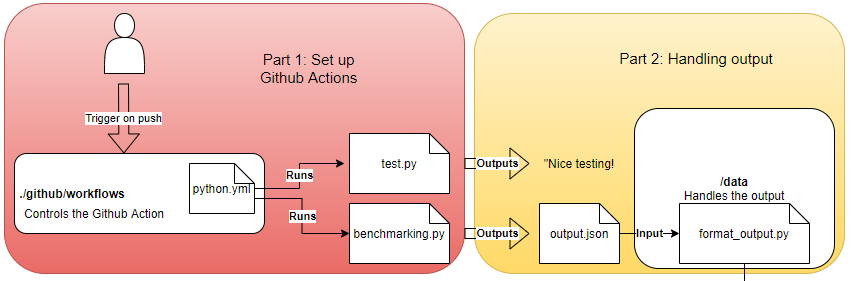
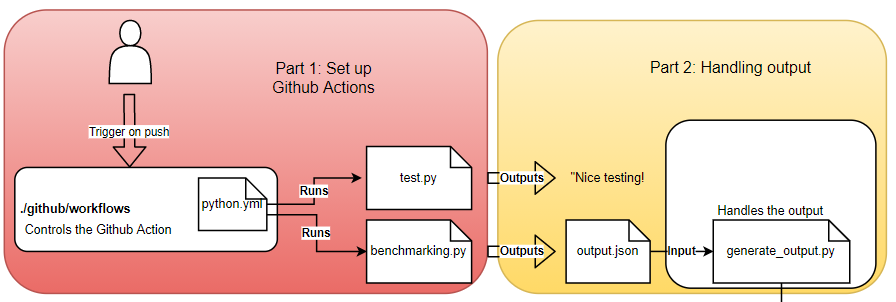
final touches

Changed region(s): [[0.0, 0.0, 0.9988, 1.0], [0.3027, 0.1993, 0.4237, 0.3132], [0.7264, 0.1708, 0.908, 0.2562]]

diff --git a/ghactionDemo/step7.md b/ghactionDemo/step7.md
@@ -11,12 +11,16 @@ Your page should now be published on `https://INSERT_USERNAME.github.io/Benchmar
 If nothing is specified the page will display your README.md file. In our case we want it to run the `index.html` file in `docs/`. 
 * So change the source from root to docs as shown in the image. 
 
-Github pages will either by default read a index.md or index.html, which fortunate for you, is already in there (both the index file and the css file were just taken from this [template website](https://uicookies.com/css-table-templates/)). You can press the link and try to run it. It might be a little slow to update so if it dosen't work wait a little and refresh the page.
+Github pages will either by default read a index.md or index.html, which fortunate for you, is already in there (both the index file and the css file were just taken from this [template website](https://uicookies.com/css-table-templates/)). 
+
+You can press the link and try to run it. It might be a little slow to update so if it dosen't work wait a little and refresh the page.
 
 Examining the flowchart again:
 <img src="https://github.com/jhammarstedt/katacoda-scenarios/blob/main/ghactionDemo/images/framework.PNG?raw=true" />
 
-We haven't adressed the `format_output` file yet. For simplicity we will just write a python script that reads the `output.json` and edits the `index.html` by adding the new table values. For the `index.html` file we choose the include Commit, Date, Mean, Max, Min, Standard Deviation (All in ms). (The file could look odd but you can format it by right clicking and press `Format Document` while watching the file in the IDE)
+We haven't adressed the `generate_output` file yet. For simplicity we will just write a python script that reads the `output.json` and edits the `index.html` by adding the new table values. For the `index.html` file we choose the include Commit, Date, Mean, Max, Min, Standard Deviation (All in ms). 
+
+(The file could look odd but you can format it by right clicking and press `Format Document` while watching the file in the IDE)
 
 <img src="https://github.com/jhammarstedt/katacoda-scenarios/blob/main/ghactionDemo/images/index_prev.PNG?raw=true" />
 
@@ -83,40 +87,38 @@ python src/generate_output.py
 
 This code will run the pytest benchmarking tool on the 'benchmarking.py' script and the results will be stored in the 'output.json' file. The 'src/generate_output.py' will then format the results stored in 'output.json' and store it in the 'index.html' file. 
 
-<details> 
-  <summary>Full python.yml file available here</summary>
-  ```
-    name: Python benchmarking using pytest
-    on: push
-    jobs:
-            benchmark:
-                    name: pytest-benchmarking
-                    runs-on: ubuntu-latest
-                    steps:
-                            - uses: actions/checkout@v2
-                            with:
-                                    persist-credentials: false
-                                    fetch-depth: 0 
-                            - uses: actions/setup-python@v1
-                            - name: Installing and running pytest
-                            run: |
-                                    pwd
-                                    python -m pip install --upgrade pip
-                                    if [ -f requirements.txt ]; 
-                                    then pip install -r requirements.txt; fi
-                                    python src/test.py
-                                    pytest src/benchmarking.py --benchmark-json output.json
-                                    python src/generate_output.py
-                            - name: Commit files
-                            run: |
-                                git config --local user.email "41898282+github-actions[bot]@users.noreply.github.com"
-                                git config --local user.name "github-actions[bot]"
-                                git add .
-                                git commit -m "Add new data" -a
-                            - name: Push changes
-                            uses: ad-m/github-push-action@master
-                            with:
-                                    github_token: ${{ secrets.GITHUB_TOKEN }}
-                                    branch: ${{ github.ref }}
-  ```{{copy}}
-</details>
+Full python.yml file available here
+```
+name: Python benchmarking using pytest
+on: push
+jobs:
+        benchmark:
+                name: pytest-benchmarking
+                runs-on: ubuntu-latest
+                steps:
+                      - uses: actions/checkout@v2
+                        with:
+                                persist-credentials: false
+                                fetch-depth: 0 
+                      - uses: actions/setup-python@v1
+                      - name: Installing and running pytest
+                        run: |
+                                pwd
+                                python -m pip install --upgrade pip
+                                if [ -f requirements.txt ]; 
+                                then pip install -r requirements.txt; fi
+                                python src/test.py
+                                pytest src/benchmarking.py --benchmark-json output.json
+                                python src/generate_output.py
+                      - name: Commit files
+                        run: |
+                            git config --local user.email "41898282+github-actions[bot]@users.noreply.github.com"
+                            git config --local user.name "github-actions[bot]"
+                            git add .
+                            git commit -m "Add new data" -a
+                      - name: Push changes
+                        uses: ad-m/github-push-action@master
+                        with:
+                                github_token: ${{ secrets.GITHUB_TOKEN }}
+                                branch: ${{ github.ref }}
+```{{copy}}

diff --git a/ghactionDemo/step6.md b/ghactionDemo/step6.md
@@ -16,8 +16,9 @@ Begin by commiting the output file:
 
 This code adds all the changed files from the benchmarking script and commits them using the message "Add new data". We configure our GitHub so that a bot makes the commit using the commands. 
 
-git config --local user.email "41898282+github-actions[bot]@users.noreply.github.com"
-git config --local user.name "github-actions[bot]".
+`git config --local user.email "41898282+github-actions[bot]@users.noreply.github.com"`
+
+`git config --local user.name "github-actions[bot]"`
 
 ## Push
 We need to push the committed changes to the remote repository. We do that by inserting the following code directly after the code we used for committing:
@@ -39,6 +40,9 @@ We need to push the committed changes to the remote repository. We do that by in
 
 Our '.github/workflows/python.yml' file should now look like this:
 
+
+<details> 
+  <summary>The current python.yml file is available here</summary>
 ```
 name: Python benchmarking using pytest
 on: push
@@ -72,7 +76,7 @@ jobs:
                                 github_token: ${{ secrets.GITHUB_TOKEN }}
                                 branch: ${{ github.ref }} 
 ```{{copy}}
-
+</details> 
 If you do another commit and push you should be able to see the output.json file in your repository after the Action has executed successfully. 
 
 (A tip could be to change the benchmark function to `benchmark(cheetah)` instead and see the performance on the faster code)

diff --git a/ghactionDemo/step1.md b/ghactionDemo/step1.md
@@ -14,7 +14,7 @@ To start of we're going to clone the project repository. Copy paste or press the
 Enter the directory ```cd Benchmarking-DevOps```{{execute}}
 
 To give permission for all scripts we need run:
-`chmod +x scripts/clear_tutorial.sh scripts/clear_table.sh`{{execute}}
+`chmod +x scripts/clear_tutorial.sh scripts/clear_table.sh scripts/collectEgg.sh`{{execute}}
 
 This tutorial can then be done in two ways
 1. By having all the code and just follow the reading
